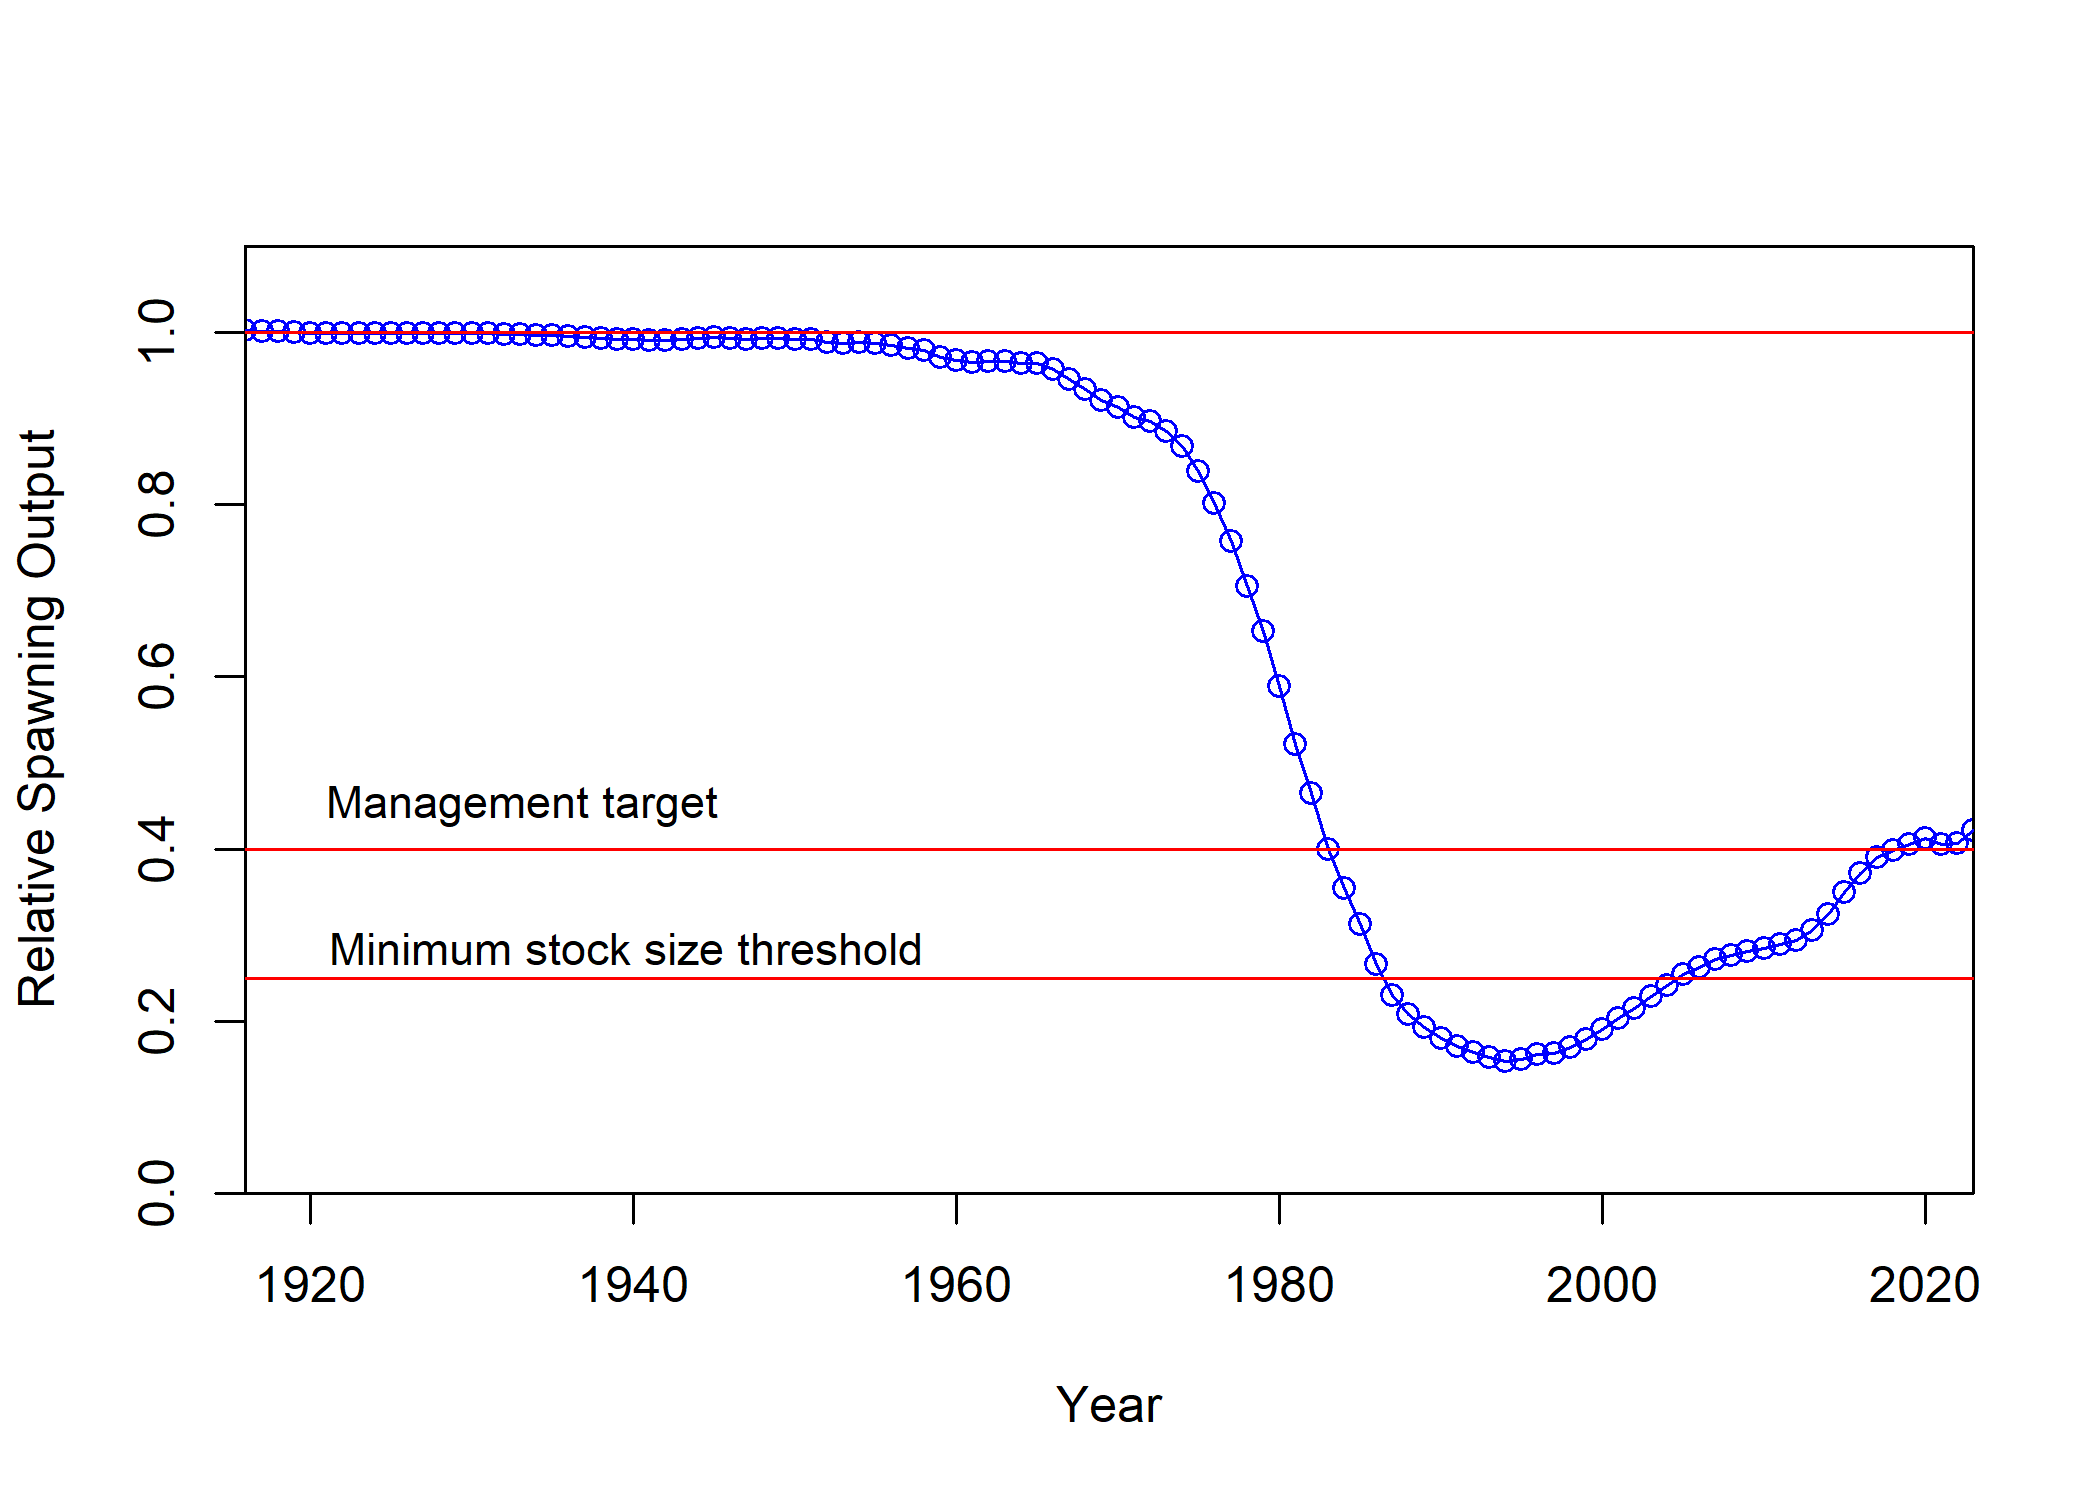
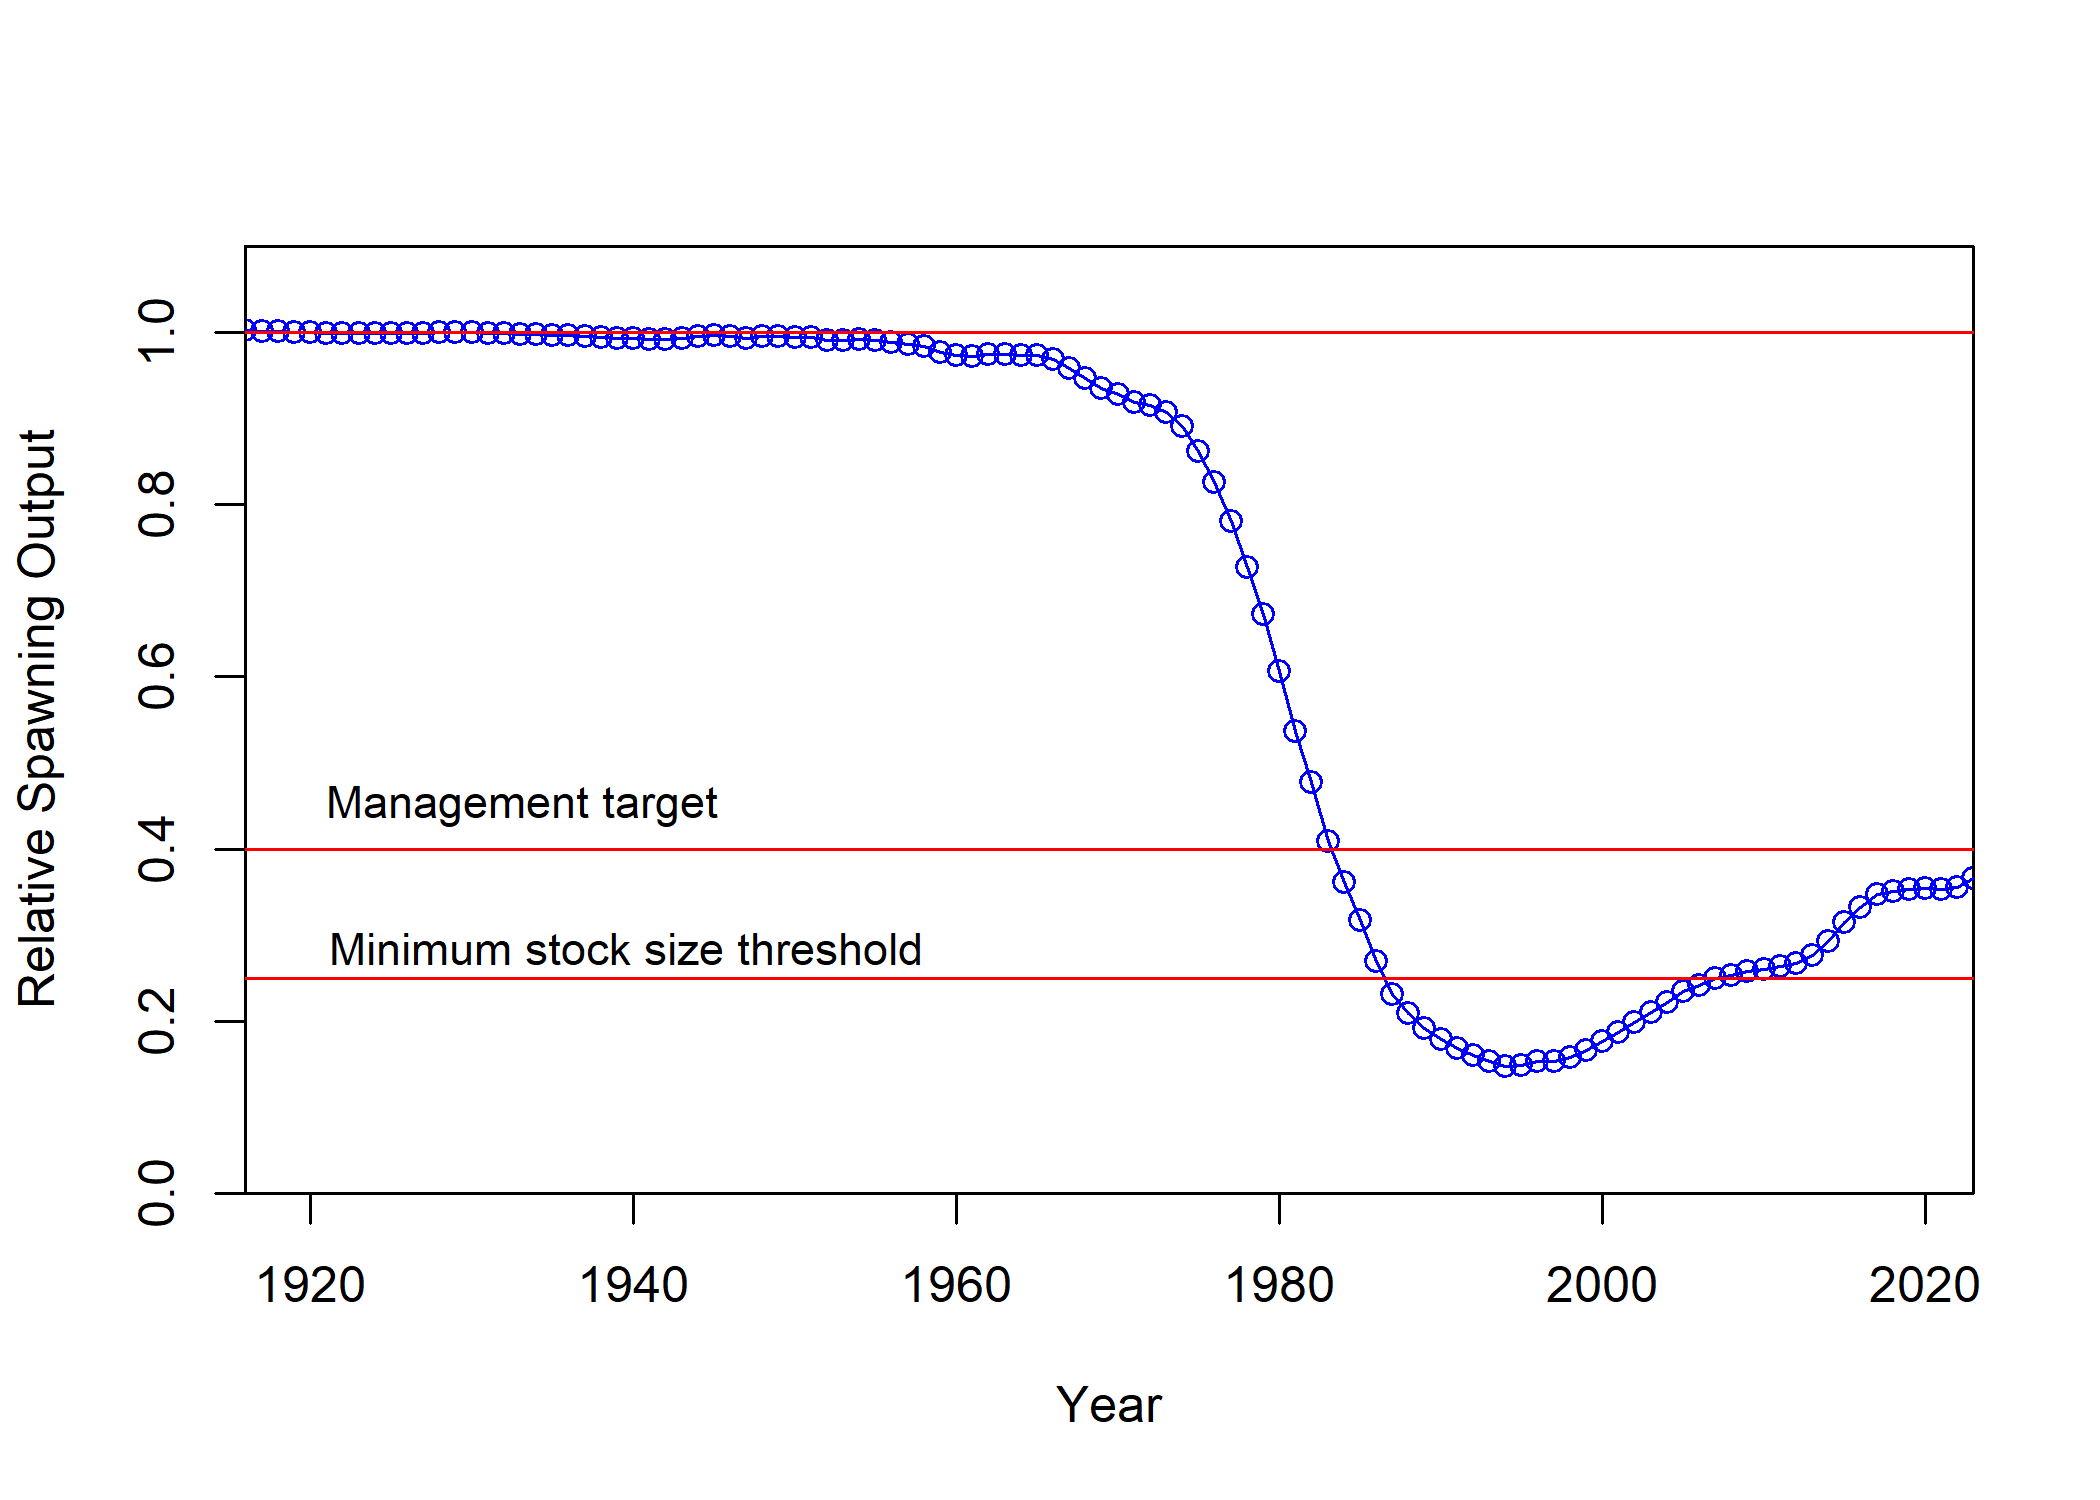
update ES text, figures, and tables

diff --git a/documents/sca/tex_tables/north_e_ReferencePoints.tex b/documents/sca/tex_tables/north_e_ReferencePoints.tex
@@ -16,26 +16,26 @@
 	\endfoot
 	\bottomrule
 	\endlastfoot
-	Unfished Spawning Output & 486.15 & 387.43 & 584.87\\
-	Unfished Age 3+ Biomass (mt) & 4719.91 & 3777.92 & 5661.90\\
-	Unfished Recruitment (R0) & 567.77 & 452.48 & 683.06\\
-	Spawning Output (2023) & 262.10 & 124.28 & 399.92\\
-	Fraction Unfished (2023) & 0.54 & 0.32 & 0.76\\
-	Reference Points Based SB40\% &  &  & \\
-	Proxy Spawning Output SB40\% & 194.46 & 154.97 & 233.95\\
-	SPR Resulting in SB40\% & 0.46 & 0.46 & 0.46\\
-	Exploitation Rate Resulting in SB40\% & 0.06 & 0.06 & 0.06\\
-	Yield with SPR Based On SB40\% (mt) & 129.86 & 104.05 & 155.67\\
-	Reference Points Based on SPR Proxy for MSY &  &  & \\
-	Proxy Spawning Output (SPR50) & 216.90 & 172.85 & 260.94\\
-	SPR50 & 0.50 &  & \\
-	Exploitation Rate Corresponding to SPR50 & 0.05 & 0.05 & 0.05\\
-	Yield with SPR50 at SB SPR (mt) & 124.05 & 99.39 & 148.71\\
-	Reference Points Based on Estimated MSY Values &  &  & \\
-	Spawning Output at MSY (SB MSY) & 134.17 & 106.84 & 161.51\\
-	SPR MSY & 0.35 & 0.34 & 0.35\\
-	Exploitation Rate Corresponding to SPR MSY & 0.09 & 0.08 & 0.09\\
-	MSY (mt) & 137.59 & 110.25 & 164.92\\*
+Unfished Spawning Output & 456.05 & 359.98 & 552.11\\
+Unfished Age 3+ Biomass (mt) & 4431.19 & 3511.38 & 5351.00\\
+Unfished Recruitment (R0) & 534.18 & 421.66 & 646.70\\
+Spawning Output (2023) & 208.74 & 77.33 & 340.15\\
+Fraction Unfished (2023) & 0.46 & 0.23 & 0.69\\
+Reference Points Based SB40\% & NA & NA & NA\\
+Proxy Spawning Output SB40\% & 182.42 & 143.99 & 220.84\\
+SPR Resulting in SB40\% & 0.46 & 0.46 & 0.46\\
+Exploitation Rate Resulting in SB40\% & 0.06 & 0.06 & 0.06\\
+Yield with SPR Based On SB40\% (mt) & 121.92 & 96.86 & 146.99\\
+Reference Points Based on SPR Proxy for MSY &  &  & \\
+Proxy Spawning Output (SPR50) & 203.47 & 160.61 & 246.33\\
+SPR50 & 0.50 & - & -\\
+Exploitation Rate Corresponding to SPR50 & 0.05 & 0.05 & 0.05\\
+Yield with SPR50 at SB SPR (mt) & 116.46 & 92.51 & 140.41\\
+Reference Points Based on Estimated MSY Values &  &  & \\
+Spawning Output at MSY (SB MSY) & 125.80 & 99.21 & 152.39\\
+SPR MSY & 0.35 & 0.34 & 0.35\\
+Exploitation Rate Corresponding to SPR MSY & 0.09 & 0.08 & 0.09\\
+MSY (mt) & 129.20 & 102.65 & 155.75\\*
 \end{longtable}
 \endgroup{}
 \endgroup{}

diff --git a/documents/sca/tex_tables/south_e_ReferencePoints.tex b/documents/sca/tex_tables/south_e_ReferencePoints.tex
@@ -16,26 +16,26 @@
 \endfoot
 \bottomrule
 \endlastfoot
-Unfished Spawning Output & 201.62 & 164.00 & 239.25\\
-Unfished Age 3+ Biomass (mt) & 1993.97 & 1621.64 & 2366.30\\
-Unfished Recruitment (R0) & 241.30 & 196.27 & 286.33\\
-Spawning Output (2023) & 27.64 & 11.59 & 43.70\\
-Fraction Unfished (2023) & 0.14 & 0.06 & 0.22\\
-Reference Points Based SB40\% &  &   &  \\
-Proxy Spawning Output SB40\% & 80.65 & 65.60 & 95.70\\
+Unfished Spawning Output & 201.06 & 163.43 & 238.70\\
+Unfished Age 3+ Biomass (mt) & 1999.51 & 1624.90 & 2374.12\\
+Unfished Recruitment (R0) & 241.18 & 196.04 & 286.32\\
+Spawning Output (2023) & 32.06 & 12.70 & 51.42\\
+Fraction Unfished (2023) & 0.16 & 0.06 & 0.25\\
+Reference Points Based SB40\% & NA & NA & NA\\
+Proxy Spawning Output SB40\% & 80.43 & 65.37 & 95.48\\
 SPR Resulting in SB40\% & 0.46 & 0.46 & 0.46\\
-Exploitation Rate Resulting in SB40\% & 0.06 & 0.06 & 0.06\\
-Yield with SPR Based On SB40\% (mt) & 50.16 & 40.89 & 59.43\\
-Reference Points Based on SPR Proxy for MSY &  & & \\
-Proxy Spawning Output (SPR50) & 89.95 & 73.17 & 106.74\\
-SPR50 & 0.50 &  & \\
+Exploitation Rate Resulting in SB40\% & 0.06 & 0.05 & 0.06\\
+Yield with SPR Based On SB40\% (mt) & 49.99 & 40.74 & 59.25\\
+Reference Points Based on SPR Proxy for MSY &  &  & \\
+Proxy Spawning Output (SPR50) & 89.71 & 72.92 & 106.50\\
+SPR50 & 0.50 & - & -\\
 Exploitation Rate Corresponding to SPR50 & 0.05 & 0.05 & 0.05\\
-Yield with SPR50 at SB SPR (mt) & 47.94 & 39.08 & 56.80\\
+Yield with SPR50 at SB SPR (mt) & 47.78 & 38.93 & 56.62\\
 Reference Points Based on Estimated MSY Values &  &  & \\
-Spawning Output at MSY (SB MSY) & 55.72 & 45.35 & 66.08\\
+Spawning Output at MSY (SB MSY) & 55.51 & 45.15 & 65.87\\
 SPR MSY & 0.35 & 0.34 & 0.35\\
-Exploitation Rate Corresponding to SPR MSY & 0.08 & 0.08 & 0.09\\
-MSY (mt) & 53.10 & 43.29 & 62.92\\*
+Exploitation Rate Corresponding to SPR MSY & 0.08 & 0.08 & 0.08\\
+MSY (mt) & 52.94 & 43.14 & 62.74\\*
 \end{longtable}
 \endgroup{}
 \endgroup{}

diff --git a/documents/sca/tex_tables/north_e_ReferencePoints_ES.tex b/documents/sca/tex_tables/north_e_ReferencePoints_ES.tex
@@ -21,17 +21,17 @@ Unfished Age 3+ Biomass (mt) & 4431.19 & 3511.38 & 5351.00\\
 Unfished Recruitment (R0) & 534.18 & 421.66 & 646.70\\
 Spawning Output (2023) & 208.74 & 77.33 & 340.15\\
 Fraction Unfished (2023) & 0.46 & 0.23 & 0.69\\
-Reference Points Based SB40\textbackslash{}\% & NA & NA & NA\\
-Proxy Spawning Output SB40\textbackslash{}\% & 182.42 & 143.99 & 220.84\\
-SPR Resulting in SB40\textbackslash{}\% & 0.46 & 0.46 & 0.46\\
-Exploitation Rate Resulting in SB40\textbackslash{}\% & 0.06 & 0.06 & 0.06\\
-Yield with SPR Based On SB40\textbackslash{}\% (mt) & 121.92 & 96.86 & 146.99\\
-Reference Points Based on SPR Proxy for MSY & NA & NA & NA\\
+Reference Points Based SB40\% & NA & NA & NA\\
+Proxy Spawning Output SB40\% & 182.42 & 143.99 & 220.84\\
+SPR Resulting in SB40\% & 0.46 & 0.46 & 0.46\\
+Exploitation Rate Resulting in SB40\% & 0.06 & 0.06 & 0.06\\
+Yield with SPR Based On SB40\% (mt) & 121.92 & 96.86 & 146.99\\
+Reference Points Based on SPR Proxy for MSY &  &  & \\
 Proxy Spawning Output (SPR50) & 203.47 & 160.61 & 246.33\\
-SPR50 & 0.50 & NA & NA\\
+SPR50 & 0.50 & - & -\\
 Exploitation Rate Corresponding to SPR50 & 0.05 & 0.05 & 0.05\\
 Yield with SPR50 at SB SPR (mt) & 116.46 & 92.51 & 140.41\\
-Reference Points Based on Estimated MSY Values & NA & NA & NA\\
+Reference Points Based on Estimated MSY Values &  &  & \\
 Spawning Output at MSY (SB MSY) & 125.80 & 99.21 & 152.39\\
 SPR MSY & 0.35 & 0.34 & 0.35\\
 Exploitation Rate Corresponding to SPR MSY & 0.09 & 0.08 & 0.09\\

diff --git a/documents/sca/tex_tables/south_e_ReferencePoints_ES.tex b/documents/sca/tex_tables/south_e_ReferencePoints_ES.tex
@@ -21,17 +21,17 @@ Unfished Age 3+ Biomass (mt) & 1999.51 & 1624.90 & 2374.12\\
 Unfished Recruitment (R0) & 241.18 & 196.04 & 286.32\\
 Spawning Output (2023) & 32.06 & 12.70 & 51.42\\
 Fraction Unfished (2023) & 0.16 & 0.06 & 0.25\\
-Reference Points Based SB40\textbackslash{}\% & NA & NA & NA\\
-Proxy Spawning Output SB40\textbackslash{}\% & 80.43 & 65.37 & 95.48\\
-SPR Resulting in SB40\textbackslash{}\% & 0.46 & 0.46 & 0.46\\
-Exploitation Rate Resulting in SB40\textbackslash{}\% & 0.06 & 0.05 & 0.06\\
-Yield with SPR Based On SB40\textbackslash{}\% (mt) & 49.99 & 40.74 & 59.25\\
-Reference Points Based on SPR Proxy for MSY & NA & NA & NA\\
+Reference Points Based SB40\% & NA & NA & NA\\
+Proxy Spawning Output SB40\% & 80.43 & 65.37 & 95.48\\
+SPR Resulting in SB40\% & 0.46 & 0.46 & 0.46\\
+Exploitation Rate Resulting in SB40\% & 0.06 & 0.05 & 0.06\\
+Yield with SPR Based On SB40\% (mt) & 49.99 & 40.74 & 59.25\\
+Reference Points Based on SPR Proxy for MSY &  &  & \\
 Proxy Spawning Output (SPR50) & 89.71 & 72.92 & 106.50\\
-SPR50 & 0.50 & NA & NA\\
+SPR50 & 0.50 & - & -\\
 Exploitation Rate Corresponding to SPR50 & 0.05 & 0.05 & 0.05\\
 Yield with SPR50 at SB SPR (mt) & 47.78 & 38.93 & 56.62\\
-Reference Points Based on Estimated MSY Values & NA & NA & NA\\
+Reference Points Based on Estimated MSY Values &  &  & \\
 Spawning Output at MSY (SB MSY) & 55.51 & 45.15 & 65.87\\
 SPR MSY & 0.35 & 0.34 & 0.35\\
 Exploitation Rate Corresponding to SPR MSY & 0.08 & 0.08 & 0.08\\

diff --git a/documents/sca/tex_tables/south_TimeSeries.tex b/documents/sca/tex_tables/south_TimeSeries.tex
@@ -134,8 +134,7 @@ Year & Total Biomass (mt) & Spawning Output & Total Biomass 3+ (mt) & Fraction U
 2031 & 517.82 & 41.18 & 505.67 & 0.20 & 175.24 & 25.99 & 0.47 & 0.05\\
 2032 & 545.62 & 43.92 & 533.15 & 0.22 & 179.07 & 27.00 & 0.47 & 0.05\\
 2033 & 572.80 & 46.58 & 560.02 & 0.23 & 182.50 & 27.94 & 0.46 & 0.05\\
-2034 & 599.40 & 49.17 & 586.35 & 0.24 & 185.58 & 28.84 & 0.46 & 0.05\\
-2035 & 625.45 & 51.69 & 612.16 & 0.26 & 188.39 & 33.33 & 0.50 & 0.05\\*
+2034 & 599.40 & 49.17 & 586.35 & 0.24 & 185.58 & 28.84 & 0.46 & -\\*
 \end{longtable}
 \endgroup{}
 \endgroup{}
